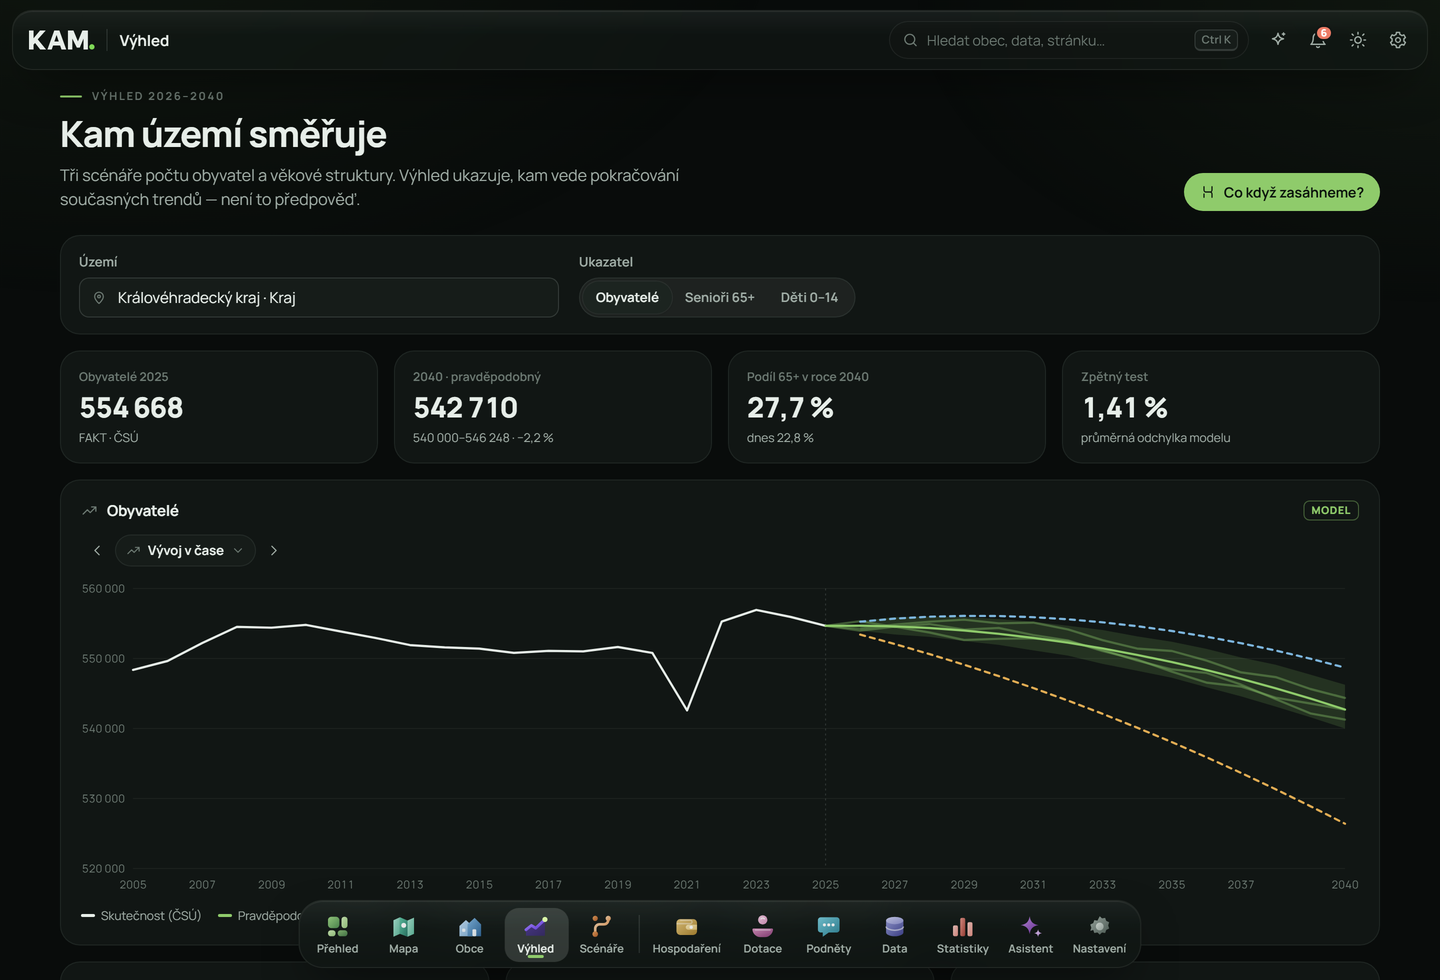
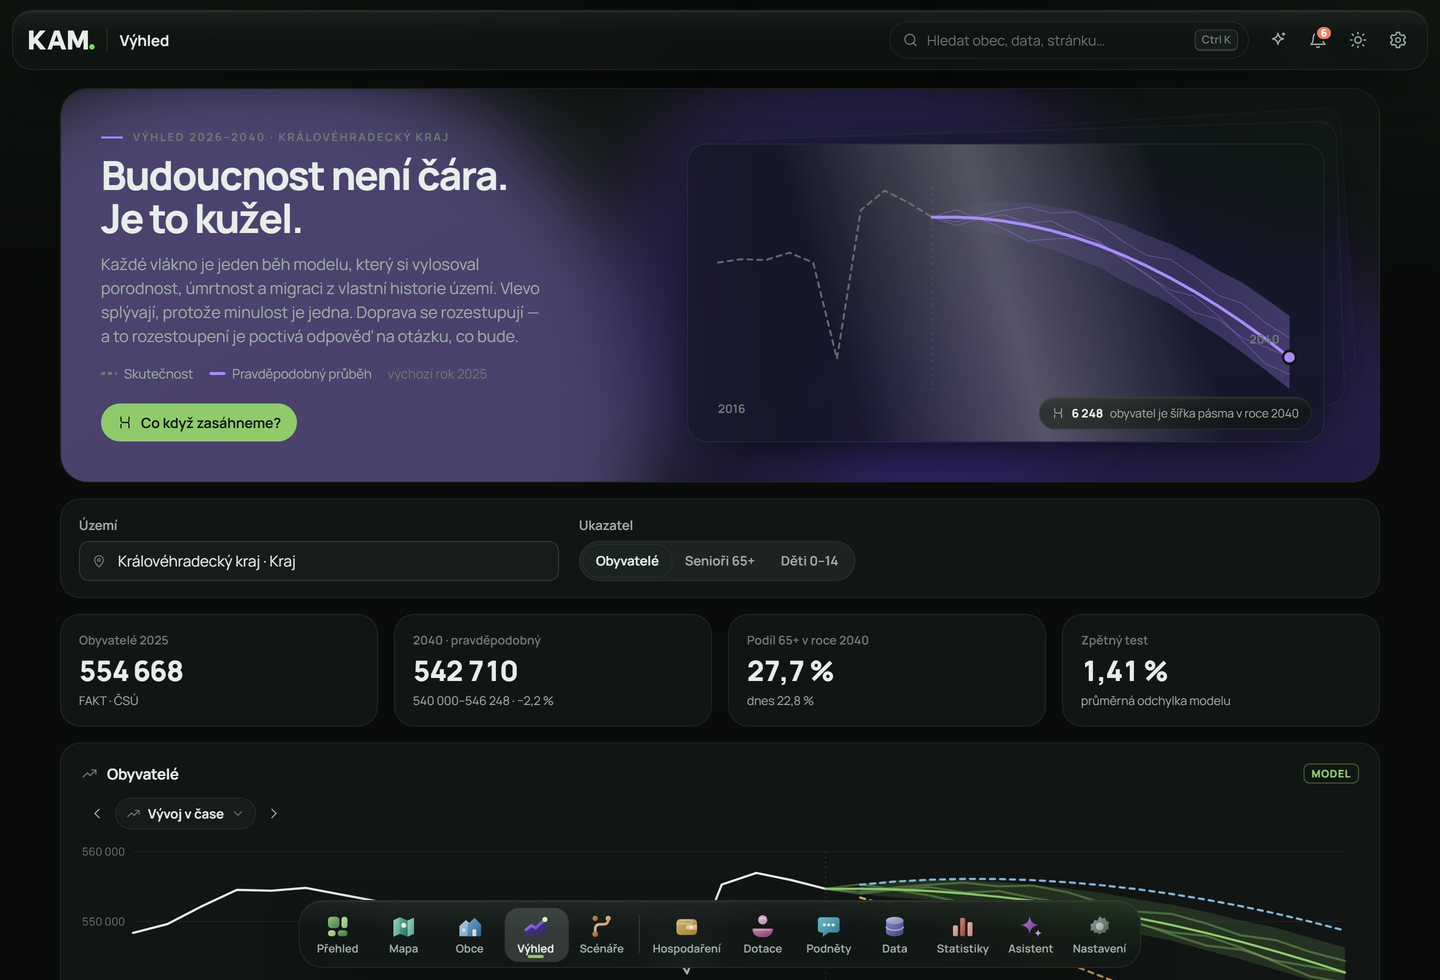
Každý hook má barvu své ikony a výhled dostal vlastní
Hooky byly všechny zelené, takže stránky vypadaly stejně a barva nic
neříkala. Teď si každý bere odstín z ikony svého modulu v docku: scénáře
oranžovou, obce modrou, výhled fialovou. Barvy se nepíšou v CSS znovu —
`modulBarvy()` je vytáhne ze `ModuleIcon`, aby se při úpravě palety
nerozešly, a `hookTema()` je předá jako `--h1..3`.

Výhled měl do teď obyčejnou hlavičku. Dostal hook o tom, co stránka
vlastně tvrdí: budoucnost není čára, je to kužel. Každé vlákno je jeden
Monte Carlo běh z `/forecast` — ten, co si vylosoval porodnost, úmrtnost
a migraci z vlastní historie území. Vlevo splývají, protože minulost je
jedna, doprava se rozestupují. Šířka pásma v roce 2040 je vypsaná vedle
(kraj 6 248 obyvatel, Jaroměř 322).

Vlákna jsou skutečné běhy, ne dekor. Bez dat panel zůstane prázdný,
stejně jako u obou předchozích hooků. Kresba se kreslí zleva doprava,
protože právě to rozestoupení je celá myšlenka.

Jméno území se bere ze seznamu území, ne z `forecast.territory` — to je
id, a v hlavičce se ukazovalo jako „kraj:86".

Screenshoty v README přefoceny.

diff --git a/frontend/src/styles/pages.css b/frontend/src/styles/pages.css
@@ -454,7 +454,10 @@
    normal flow elements, never fixed — `backdrop-filter` on a fixed element is
    what produced the black frames in the navbar, and the same trick here would
    do the same thing. */
+/* Odstín hooku nastavuje stránka (`--h1..3`, viz `modulBarvy`), aby se
+   shodl s barvou své ikony v docku. Výchozí je zelená značky. */
 .sc-hook {
+  --h1: var(--accent); --h2: var(--info); --h3: var(--lime);
   position: relative; isolation: isolate; overflow: hidden;
   display: grid; grid-template-columns: minmax(0, 0.92fr) minmax(0, 1.08fr); gap: 28px; align-items: center;
   padding: clamp(20px, 3.4vw, 40px); margin-bottom: var(--gap);
@@ -465,19 +468,20 @@
 
 .sc-blobs { position: absolute; inset: -20%; z-index: -1; filter: blur(40px); opacity: .62; pointer-events: none; }
 .sc-blob { position: absolute; display: block; border-radius: 50%; }
-.sc-blob.b1 { width: 42%; padding-bottom: 42%; left: 4%; top: 6%; background: color-mix(in oklab, var(--accent) 60%, transparent); animation: sc-drift 26s var(--ease-out) infinite alternate; }
-.sc-blob.b2 { width: 34%; padding-bottom: 34%; right: 10%; top: 34%; background: color-mix(in oklab, var(--info) 46%, transparent); animation: sc-drift 32s var(--ease-out) -8s infinite alternate-reverse; }
-.sc-blob.b3 { width: 28%; padding-bottom: 28%; right: 28%; bottom: 2%; background: color-mix(in oklab, var(--lime) 40%, transparent); animation: sc-drift 38s var(--ease-out) -16s infinite alternate; }
+.sc-blob.b1 { width: 42%; padding-bottom: 42%; left: 4%; top: 6%; background: color-mix(in oklab, var(--h1) 60%, transparent); animation: sc-drift 26s var(--ease-out) infinite alternate; }
+.sc-blob.b2 { width: 34%; padding-bottom: 34%; right: 10%; top: 34%; background: color-mix(in oklab, var(--h2) 46%, transparent); animation: sc-drift 32s var(--ease-out) -8s infinite alternate-reverse; }
+.sc-blob.b3 { width: 28%; padding-bottom: 28%; right: 28%; bottom: 2%; background: color-mix(in oklab, var(--h3) 40%, transparent); animation: sc-drift 38s var(--ease-out) -16s infinite alternate; }
 @keyframes sc-drift { from { transform: translate3d(0, 0, 0) scale(1); } to { transform: translate3d(7%, -9%, 0) scale(1.14); } }
 
 .sc-hook-copy { position: relative; min-width: 0; }
+.sc-hook .eyebrow::before { background: var(--h1); }
 .sc-hook-copy h1 { font-size: clamp(1.6rem, 3.3vw, 2.5rem); line-height: 1.08; letter-spacing: -.035em; margin: 0 0 12px; }
 .sc-hook-copy .lead { max-width: 46ch; }
 .sc-hook-legend { display: flex; flex-wrap: wrap; gap: 8px 16px; margin-top: 16px; font-size: .8125rem; color: var(--text-dim); }
 .sc-hook-legend span { display: inline-flex; align-items: center; gap: 7px; }
 .sc-hook-legend .sw { width: 16px; height: 3px; border-radius: 2px; display: block; }
 .sc-hook-legend .sw.base { background: repeating-linear-gradient(90deg, var(--text-mute) 0 4px, transparent 4px 7px); }
-.sc-hook-legend .sw.scen { background: var(--accent); }
+.sc-hook-legend .sw.scen { background: var(--h1); }
 
 .sc-stage { position: relative; min-width: 0; aspect-ratio: 640 / 300; }
 .sc-pane {
@@ -506,11 +510,11 @@
 .sc-art { position: absolute; inset: 0; width: 100%; height: 100%; }
 .sc-art .sc-grid { stroke: var(--grid-line); stroke-width: 1; }
 .sc-art .sc-base { fill: none; stroke: var(--text-mute); stroke-width: 2; stroke-dasharray: 5 5; stroke-linecap: round; opacity: .85; }
-.sc-art .sc-scen { fill: none; stroke: var(--accent); stroke-width: 3; stroke-linecap: round; stroke-linejoin: round;
+.sc-art .sc-scen { fill: none; stroke: var(--h1); stroke-width: 3; stroke-linecap: round; stroke-linejoin: round;
   stroke-dasharray: 1000; stroke-dashoffset: 1000; animation: sc-draw 1600ms var(--ease-out) 260ms forwards; }
 @keyframes sc-draw { to { stroke-dashoffset: 0; } }
-.sc-art .sc-pulse { fill: var(--accent); filter: drop-shadow(0 0 7px color-mix(in oklab, var(--accent) 70%, transparent)); }
-.sc-art .sc-end circle { fill: var(--accent); stroke: var(--surface); stroke-width: 2.5; }
+.sc-art .sc-pulse { fill: var(--h1); filter: drop-shadow(0 0 7px color-mix(in oklab, var(--h1) 70%, transparent)); }
+.sc-art .sc-end circle { fill: var(--h1); stroke: var(--surface); stroke-width: 2.5; }
 .sc-art .sc-end text, .sc-art .sc-yr { fill: var(--text-mute); font-size: 12px; font-weight: 700; }
 /* Right-hand side, and never wide enough to reach the first-year label in the
    opposite corner. */
@@ -686,7 +690,7 @@
 .ob-kotva { display: grid; gap: 1px; padding: 9px 13px; border-radius: var(--r-md); text-decoration: none;
   border: 1px solid var(--border); background: var(--glass); color: var(--text); min-height: 44px;
   transition: border-color var(--t-xs), background var(--t-xs); }
-.ob-kotva:hover { border-color: var(--accent-line); background: var(--accent-soft); }
+.ob-kotva:hover { border-color: color-mix(in oklab, var(--h1) 40%, transparent); background: color-mix(in oklab, var(--h1) 12%, transparent); }
 .ob-kotva strong { font-size: .875rem; line-height: 1.2; }
 .ob-kotva-popis { font-size: .625rem; font-weight: 800; letter-spacing: .12em; text-transform: uppercase; color: var(--text-mute); }
 .ob-kotva .num { font-size: .75rem; color: var(--text-dim); }
@@ -695,12 +699,36 @@
 .ob-art .ob-popis { fill: var(--text-mute); font-size: 10px; font-weight: 650; }
 .ob-art .ob-popis.stred { fill: var(--text-dim); }
 .ob-art .ob-median { stroke: var(--text-mute); stroke-width: 1; stroke-dasharray: 3 4; opacity: .6; }
-.ob-art .ob-kruh { fill: none; stroke: var(--lime); stroke-width: 1.4; opacity: .75; }
+.ob-art .ob-kruh { fill: none; stroke: var(--h3); stroke-width: 1.4; opacity: .9; }
 .ob-art .ob-body circle { animation: ob-bod 520ms var(--ease-spring) both; animation-delay: calc(var(--i, 0) * 7ms); }
 @keyframes ob-bod { from { opacity: 0; transform: scale(.2); } }
 .ob-art .ob-body circle { transform-box: fill-box; transform-origin: center; }
 
 :root[data-motion="reduce"] .ob-art .ob-body circle { animation: none; }
+
+/* ------------------------------------------------------ hook stránky výhledu
+   Potřetí stejné sklo a stejné rozvržení jako u scénářů (`.sc-hook`), zase
+   jiná kresba. Vlákna se kreslí zleva doprava, protože právě to je ta věta,
+   kterou stránka říká: vycházejí z jednoho bodu a rozestupují se. Zpoždění
+   běží po dvacítkách (`--i`), ne po vláknech — šedesát vlastních rozjezdů by
+   se slilo do třepotání. */
+.vy-hook .sc-hook-copy h1 { text-wrap: balance; }
+.vy-art .vy-hist { fill: none; stroke: var(--text-mute); stroke-width: 2; stroke-dasharray: 5 5;
+  stroke-linecap: round; stroke-linejoin: round; opacity: .85; }
+/* Předěl skutečnost | model. Tenký a přerušovaný: je to popisek, ne data. */
+.vy-art .vy-delic { stroke: var(--border-strong); stroke-width: 1; stroke-dasharray: 2 5; }
+.vy-art .vy-band { stroke: none; animation: vy-pas 900ms var(--ease-out) 200ms both; }
+@keyframes vy-pas { from { opacity: 0; } }
+.vy-art .vy-vlakna path {
+  fill: none; stroke: var(--h1); stroke-width: 1; stroke-linecap: round; stroke-linejoin: round; opacity: .32;
+  stroke-dasharray: 100; stroke-dashoffset: 100;
+  animation: vy-nit 1500ms var(--ease-out) both; animation-delay: calc(200ms + var(--i, 0) * 24ms);
+}
+@keyframes vy-nit { to { stroke-dashoffset: 0; } }
+
+:root[data-motion="reduce"] .vy-art .vy-vlakna path,
+:root[data-motion="reduce"] .vy-art .vy-band { animation: none; }
+:root[data-motion="reduce"] .vy-art .vy-vlakna path { stroke-dashoffset: 0; }
 
 @media (pointer: coarse) {
   .icon-btn { width: 44px; height: 44px; }

diff --git a/frontend/src/components/VyhledHook.tsx b/frontend/src/components/VyhledHook.tsx
@@ -1,0 +1,145 @@
+// Otevření stránky výhledu: budoucnost není čára, je to kužel.
+//
+// Model neumí říct, kolik lidí bude v obci v roce 2040. Umí říct, jak široký
+// je rozsah, ve kterém to skoro jistě bude — a přesně to je tady nakreslené:
+// každé vlákno je jeden Monte Carlo běh, který si vylosoval porodnost,
+// úmrtnost a migraci z vlastní historie území. Vlevo jsou všechna vlákna
+// v jednom bodě, protože minulost je jen jedna; doprava se rozestupují.
+//
+// To rozestoupení je celá myšlenka stránky. Jedna tučná čára uprostřed by
+// tvrdila jistotu, kterou model nemá, a graf by lhal tím, co vynechá.
+//
+// Vlákna jsou skutečné běhy modelu, ne vygenerovaný dekor. Dokud nedorazí,
+// panel zůstane prázdný.
+
+import { useId, useMemo } from "react";
+import { hookTema } from "./hook-tema";
+import { Icon } from "./Icon";
+import { num } from "../lib/format";
+
+export interface VyhledBod { year: number; population: number }
+
+const W = 640, H = 262;
+const PAD = { l: 30, r: 34, t: 28, b: 34 };
+/** Víc vláken už se slije do plochy a jen zdržuje vykreslení. */
+const MAX_VLAKEN = 60;
+
+export function VyhledHook({ historie, cesty, pravdepodobny, pasmo, baseYear, territory, children }: {
+  historie: VyhledBod[];
+  cesty: VyhledBod[][];
+  pravdepodobny: VyhledBod[];
+  pasmo: { year: number; lo: number; hi: number }[];
+  baseYear?: number;
+  territory?: string;
+  children?: React.ReactNode;
+}) {
+  const uid = useId().replace(/[^a-zA-Z0-9]/g, "");
+
+  const art = useMemo(() => {
+    if (pravdepodobny.length < 2) return null;
+    // Historie se zkrátí na deset let: delší ocas stlačí budoucnost do pravé
+    // třetiny panelu a rozevření kuželu přestane být vidět.
+    const h = historie.slice(-10);
+    const vse = [...h, ...pravdepodobny];
+    const x0 = Math.min(...vse.map((p) => p.year));
+    const x1 = Math.max(...vse.map((p) => p.year));
+    const hodnoty = [
+      ...vse.map((p) => p.population),
+      ...pasmo.flatMap((p) => [p.lo, p.hi]),
+      ...cesty.slice(0, MAX_VLAKEN).flatMap((c) => c.map((p) => p.population)),
+    ].filter((v) => Number.isFinite(v));
+    const lo = Math.min(...hodnoty), hi = Math.max(...hodnoty);
+    const rozpeti = hi - lo || 1;
+    const X = (y: number) => PAD.l + ((y - x0) / Math.max(1, x1 - x0)) * (W - PAD.l - PAD.r);
+    const Y = (v: number) => PAD.t + (1 - (v - lo) / rozpeti) * (H - PAD.t - PAD.b);
+    const d = (arr: VyhledBod[]) => arr.map((p, i) => `${i ? "L" : "M"}${X(p.year).toFixed(1)},${Y(p.population).toFixed(1)}`).join("");
+
+    const spoj = h.length ? [h[h.length - 1], ...pravdepodobny] : pravdepodobny;
+    const band = pasmo.length > 1
+      ? `M${pasmo.map((p) => `${X(p.year).toFixed(1)},${Y(p.hi).toFixed(1)}`).join("L")}`
+        + `L${[...pasmo].reverse().map((p) => `${X(p.year).toFixed(1)},${Y(p.lo).toFixed(1)}`).join("L")}Z`
+      : "";
+    const konec = pravdepodobny[pravdepodobny.length - 1];
+    const sirka = pasmo.length ? pasmo[pasmo.length - 1].hi - pasmo[pasmo.length - 1].lo : 0;
+
+    return {
+      historie: h.length > 1 ? d(h) : "",
+      vlakna: cesty.slice(0, MAX_VLAKEN)
+        .map((c) => (h.length ? d([h[h.length - 1], ...c]) : d(c)))
+        .filter(Boolean),
+      stred: d(spoj),
+      band,
+      x0, x1,
+      delicX: h.length ? X(h[h.length - 1].year) : PAD.l,
+      konecX: X(konec.year), konecY: Y(konec.population),
+      sirka: Math.round(sirka),
+      konecRok: konec.year,
+    };
+  }, [historie, cesty, pravdepodobny, pasmo]);
+
+  return (
+    <section className="sc-hook vy-hook" style={hookTema("vyhled")} aria-labelledby={`${uid}-t`}>
+      <div className="sc-blobs" aria-hidden="true"><i className="sc-blob b1" /><i className="sc-blob b2" /><i className="sc-blob b3" /></div>
+
+      <div className="sc-hook-copy">
+        <div className="eyebrow">Výhled 2026–2040{territory ? ` · ${territory}` : ""}</div>
+        <h1 id={`${uid}-t`}>Budoucnost není čára.<br />Je to kužel.</h1>
+        <p className="lead">
+          Každé vlákno je jeden běh modelu, který si vylosoval porodnost, úmrtnost a migraci z vlastní
+          historie území. Vlevo splývají, protože minulost je jedna. Doprava se rozestupují — a to
+          rozestoupení je poctivá odpověď na otázku, co bude.
+        </p>
+        <div className="sc-hook-legend">
+          <span><i className="sw base" /> Skutečnost</span>
+          <span><i className="sw scen" /> Pravděpodobný průběh</span>
+          {baseYear && <span className="mute">výchozí rok {baseYear}</span>}
+        </div>
+        {children}
+      </div>
+
+      <div className="sc-stage" aria-hidden={art ? undefined : "true"}>
+        <div className="sc-pane p3" />
+        <div className="sc-pane p2" />
+        <div className="sc-pane p1">
+          <span className="sc-sheen" />
+          <svg className="sc-art vy-art" viewBox={`0 0 ${W} ${H}`} preserveAspectRatio="xMidYMid meet"
+            role="img" aria-label={art ? `Kužel možných průběhů počtu obyvatel do roku ${art.konecRok}` : "Zatím bez výhledu"}>
+            <defs>
+              <linearGradient id={`${uid}b`} x1="0" y1="0" x2="1" y2="0">
+                <stop offset="0%" stopColor="var(--h1)" stopOpacity="0.02" />
+                <stop offset="100%" stopColor="var(--h1)" stopOpacity="0.3" />
+              </linearGradient>
+            </defs>
+
+            {art && (
+              <>
+                {art.band && <path className="vy-band" d={art.band} fill={`url(#${uid}b)`} />}
+                <g className="vy-vlakna">
+                  {art.vlakna.map((d, i) => (
+                    <path key={i} d={d} pathLength={100} style={{ ["--i" as string]: i % 20 }} />
+                  ))}
+                </g>
+                {art.historie && <path className="vy-hist" d={art.historie} />}
+                {/* Předěl mezi tím, co se stalo, a tím, co model dopočítal. */}
+                <line className="vy-delic" x1={art.delicX} x2={art.delicX} y1={PAD.t - 4} y2={H - PAD.b + 6} />
+                <path className="sc-scen" d={art.stred} pathLength={1000} />
+                <g className="sc-end">
+                  <circle cx={art.konecX} cy={art.konecY} r="6.5" />
+                  <text x={art.konecX - 10} y={art.konecY - 14} textAnchor="end">{art.konecRok}</text>
+                </g>
+                <text className="sc-yr" x={PAD.l} y={H - 10}>{art.x0}</text>
+              </>
+            )}
+          </svg>
+          {art && art.sirka > 0 && (
+            <div className="sc-delta glass">
+              <Icon name="split" size={14} />
+              <strong>{num(art.sirka)}</strong>
+              <span>obyvatel je šířka pásma v roce {art.konecRok}</span>
+            </div>
+          )}
+        </div>
+      </div>
+    </section>
+  );
+}

diff --git a/frontend/src/pages/Outlook.tsx b/frontend/src/pages/Outlook.tsx
@@ -5,8 +5,9 @@
 import { useState, type CSSProperties } from "react";
 import { ChartSwitch, Donut, Heatmap, LineChart, Legend, ShareBar, Waterfall } from "../components/charts";
 import { Icon } from "../components/Icon";
-import { TerritoryPicker } from "../components/TerritoryPicker";
-import { Card, ErrorBox, InfoHint, KindTag, PageHeader, Segmented, Stat } from "../components/ui";
+import { TerritoryPicker, useTerritories } from "../components/TerritoryPicker";
+import { VyhledHook } from "../components/VyhledHook";
+import { Card, ErrorBox, InfoHint, KindTag, Segmented, Stat } from "../components/ui";
 import { useApi } from "../lib/api";
 import { num, pct, signed } from "../lib/format";
 import { Link, setQuery, useLocation } from "../lib/router";
@@ -19,6 +20,7 @@ export function Outlook() {
   const tid = query.get("t") ?? "kraj:86";
   const { data, error, reload } = useApi<Forecast>(`/forecast/${tid}`);
   const [metric, setMetric] = useState<Metric>("population");
+  const nazev = useTerritories().data?.find((t) => t.id === tid)?.name;
   const label = { population: "Obyvatelé", age_65: "Senioři 65+", age_0_14: "Děti 0–14" }[metric];
   const ok = data?.available ? data : null;
 
@@ -37,8 +39,15 @@ export function Outlook() {
 
   return (
     <>
-      <PageHeader eyebrow="Výhled 2026–2040" title="Kam území směřuje" lead="Tři scénáře počtu obyvatel a věkové struktury. Výhled ukazuje, kam vede pokračování současných trendů — není to předpověď."
-        actions={<Link className="btn btn-primary" to={`/scenare?t=${tid}`}><Icon name="split" size={16} /> Co když zasáhneme?</Link>} />
+      <VyhledHook territory={nazev} baseYear={ok?.base_year}
+        historie={ok?.history.map((r) => ({ year: r.year, population: r.population })) ?? []}
+        cesty={ok?.paths?.map((p) => p.map((r) => ({ year: r.year, population: r.population }))) ?? []}
+        pravdepodobny={ok?.scenarios.pravdepodobny.map((r) => ({ year: r.year, population: r.population })) ?? []}
+        pasmo={ok?.scenarios.pravdepodobny.map((r) => ({ year: r.year, lo: r.lower, hi: r.upper })) ?? []}>
+        <div className="row" style={{ marginTop: 20 }}>
+          <Link className="btn btn-primary" to={`/scenare?t=${tid}`}><Icon name="split" size={16} /> Co když zasáhneme?</Link>
+        </div>
+      </VyhledHook>
       <div className="stack-y">
         <div className="toolbar-card reveal">
           <div className="toolbar-picker"><TerritoryPicker value={tid} onChange={(id) => setQuery({ t: id })} label="Území" /></div>

diff --git a/frontend/src/components/ObceHook.tsx b/frontend/src/components/ObceHook.tsx
@@ -15,6 +15,7 @@
 // odpověď na otázku, jak vypadá kraj.
 
 import { useId, useMemo } from "react";
+import { hookTema } from "./hook-tema";
 import { Icon } from "./Icon";
 import { num } from "../lib/format";
 
@@ -89,7 +90,7 @@ export function ObceHook({ obce, loading, onOpen, children }: {
   );
 
   return (
-    <section className="sc-hook ob-hook" aria-labelledby={`${uid}-t`}>
+    <section className="sc-hook ob-hook" style={hookTema("obce")} aria-labelledby={`${uid}-t`}>
       <div className="sc-blobs" aria-hidden="true"><i className="sc-blob b1" /><i className="sc-blob b2" /><i className="sc-blob b3" /></div>
 
       <div className="sc-hook-copy">
@@ -118,8 +119,8 @@ export function ObceHook({ obce, loading, onOpen, children }: {
             role="img" aria-label={art ? `Všech ${art.body.length} obcí kraje podle počtu obyvatel; největší ${art.max.name}, nejmenší ${art.min.name}` : "Zatím bez dat"}>
             <defs>
               <radialGradient id={`${uid}g`}>
-                <stop offset="0%" stopColor="var(--lime)" stopOpacity="0.95" />
-                <stop offset="100%" stopColor="var(--accent)" stopOpacity="0.55" />
+                <stop offset="0%" stopColor="var(--h3)" stopOpacity="0.95" />
+                <stop offset="100%" stopColor="var(--h1)" stopOpacity="0.6" />
               </radialGradient>
             </defs>
 
@@ -136,7 +137,7 @@ export function ObceHook({ obce, loading, onOpen, children }: {
                 <g className="ob-body">
                   {art.body.map((b, i) => (
                     <circle key={b.id} cx={b.x} cy={b.y} r={b.r}
-                      fill={b.r > 6 ? `url(#${uid}g)` : "var(--accent)"}
+                      fill={b.r > 6 ? `url(#${uid}g)` : "var(--h1)"}
                       opacity={0.42 + Math.min(b.r / R_MAX, 1) * 0.55}
                       style={{ ["--i" as string]: i % 60 }} />
                   ))}

diff --git a/frontend/src/components/ScenarioHook.tsx b/frontend/src/components/ScenarioHook.tsx
@@ -14,6 +14,7 @@
 // `data-motion="reduce"`.
 
 import { useId, useMemo } from "react";
+import { hookTema } from "./hook-tema";
 import { Icon } from "./Icon";
 import { num } from "../lib/format";
 
@@ -49,7 +50,7 @@ export function ScenarioHook({ baseline, scenario, territory, baseYear, delta, c
   }, [baseline, scenario]);
 
   return (
-    <section className="sc-hook" aria-labelledby={`${uid}-t`}>
+    <section className="sc-hook" style={hookTema("scenare")} aria-labelledby={`${uid}-t`}>
       <div className="sc-blobs" aria-hidden="true"><i className="sc-blob b1" /><i className="sc-blob b2" /><i className="sc-blob b3" /></div>
 
       <div className="sc-hook-copy">
@@ -76,8 +77,8 @@ export function ScenarioHook({ baseline, scenario, territory, baseYear, delta, c
             role="img" aria-label={art ? `Vývoj bez zásahu a se zásahem${territory ? ` pro ${territory}` : ""}` : "Zatím bez výsledku"}>
             <defs>
               <linearGradient id={`${uid}w`} x1="0" y1="0" x2="0" y2="1">
-                <stop offset="0%" stopColor="var(--accent)" stopOpacity="0.42" />
-                <stop offset="100%" stopColor="var(--accent)" stopOpacity="0.05" />
+                <stop offset="0%" stopColor="var(--h1)" stopOpacity="0.42" />
+                <stop offset="100%" stopColor="var(--h1)" stopOpacity="0.05" />
               </linearGradient>
               {/* The liquid in "liquid glass": a slow turbulent warp on the edge
                   of the wedge only, so the data lines themselves stay exact. */}

diff --git a/frontend/src/components/ModuleIcon.tsx b/frontend/src/components/ModuleIcon.tsx
@@ -131,6 +131,14 @@ const SPECS: Record<string, Spec> = {
   },
 };
 
+/** Barvy modulu pro cokoli mimo ikonu — hooky si jimi barví pozadí, aby
+ *  stránka a její ikona v docku držely stejný odstín. Jeden zdroj pravdy:
+ *  kdyby si hook psal hexy sám, rozejdou se při první úpravě palety. */
+export function modulBarvy(name: string): { a: string; b: string; c: string } {
+  const spec = SPECS[name] ?? SPECS.prehled;
+  return { a: spec.a[0], b: spec.a[1], c: spec.b[0] };
+}
+
 export function ModuleIcon({ name, size = 26 }: { name: string; size?: number }) {
   const uid = useId().replace(/:/g, "");
   const spec = SPECS[name] ?? SPECS.prehled;

diff --git a/frontend/src/components/hook-tema.ts b/frontend/src/components/hook-tema.ts
@@ -1,0 +1,14 @@
+// Odstín hooku podle modulu, do kterého stránka patří.
+//
+// Hooky vypadaly všechny stejně zeleně, takže se od sebe nedaly poznat.
+// Barvy si ale nepíšou samy — berou se ze `ModuleIcon`, aby stránka měla
+// přesně ten odstín, který má její ikona v docku, a aby se to při změně
+// palety nerozešlo.
+
+import type { CSSProperties } from "react";
+import { modulBarvy } from "./ModuleIcon";
+
+export function hookTema(modul: string): CSSProperties {
+  const b = modulBarvy(modul);
+  return { ["--h1" as string]: b.a, ["--h2" as string]: b.b, ["--h3" as string]: b.c } as CSSProperties;
+}
